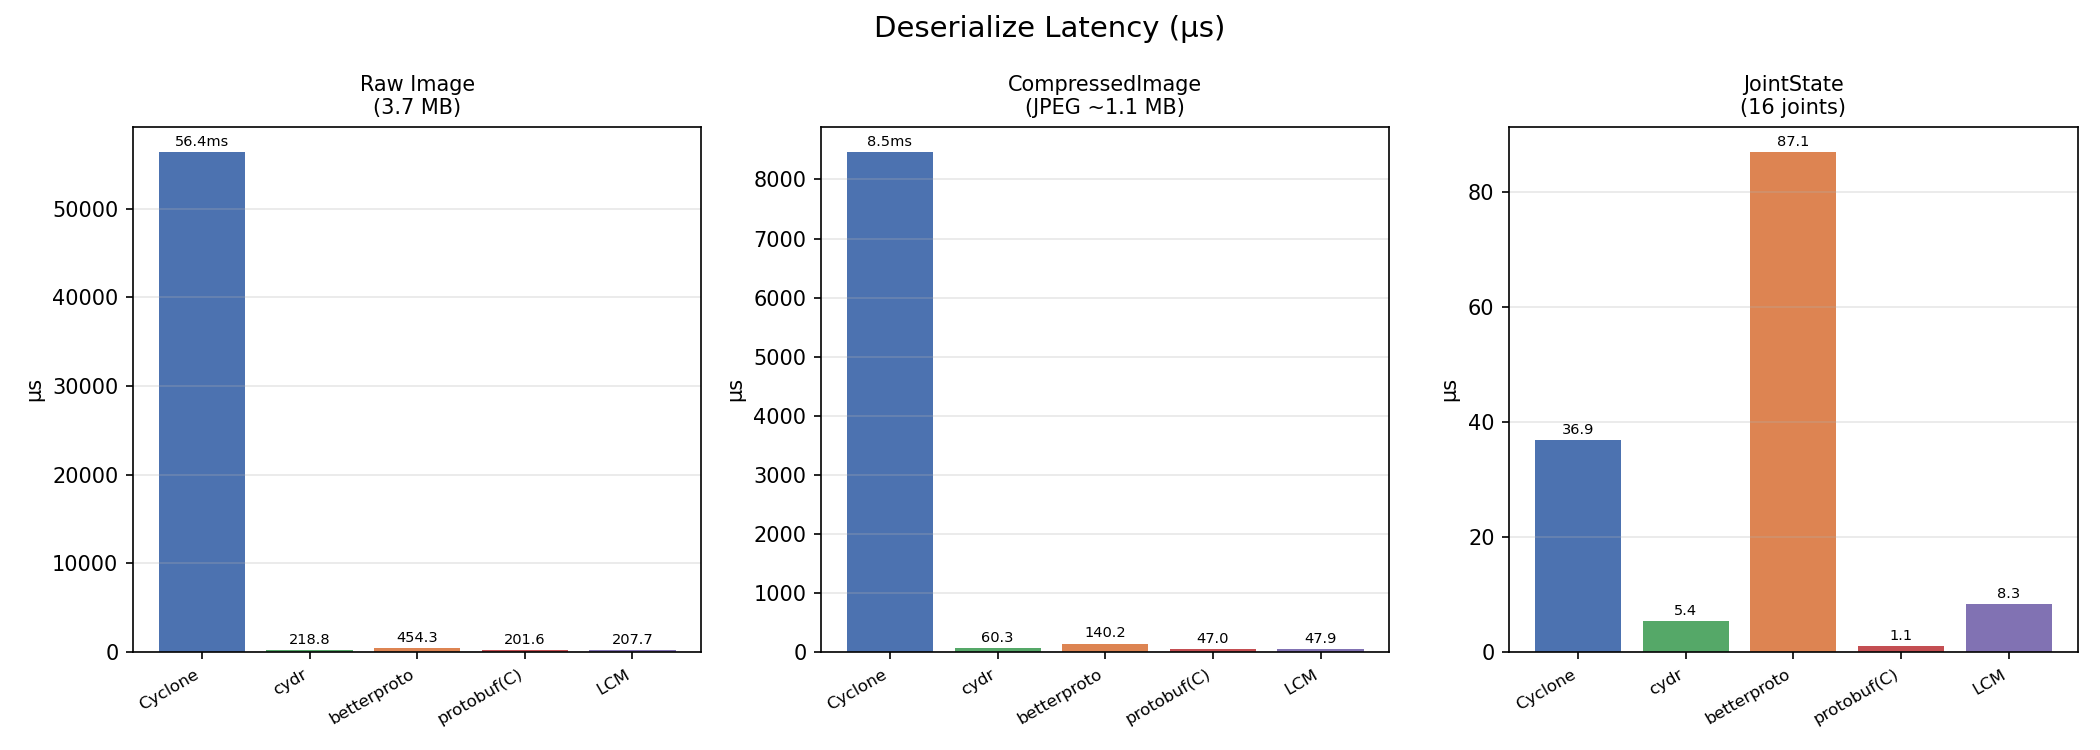
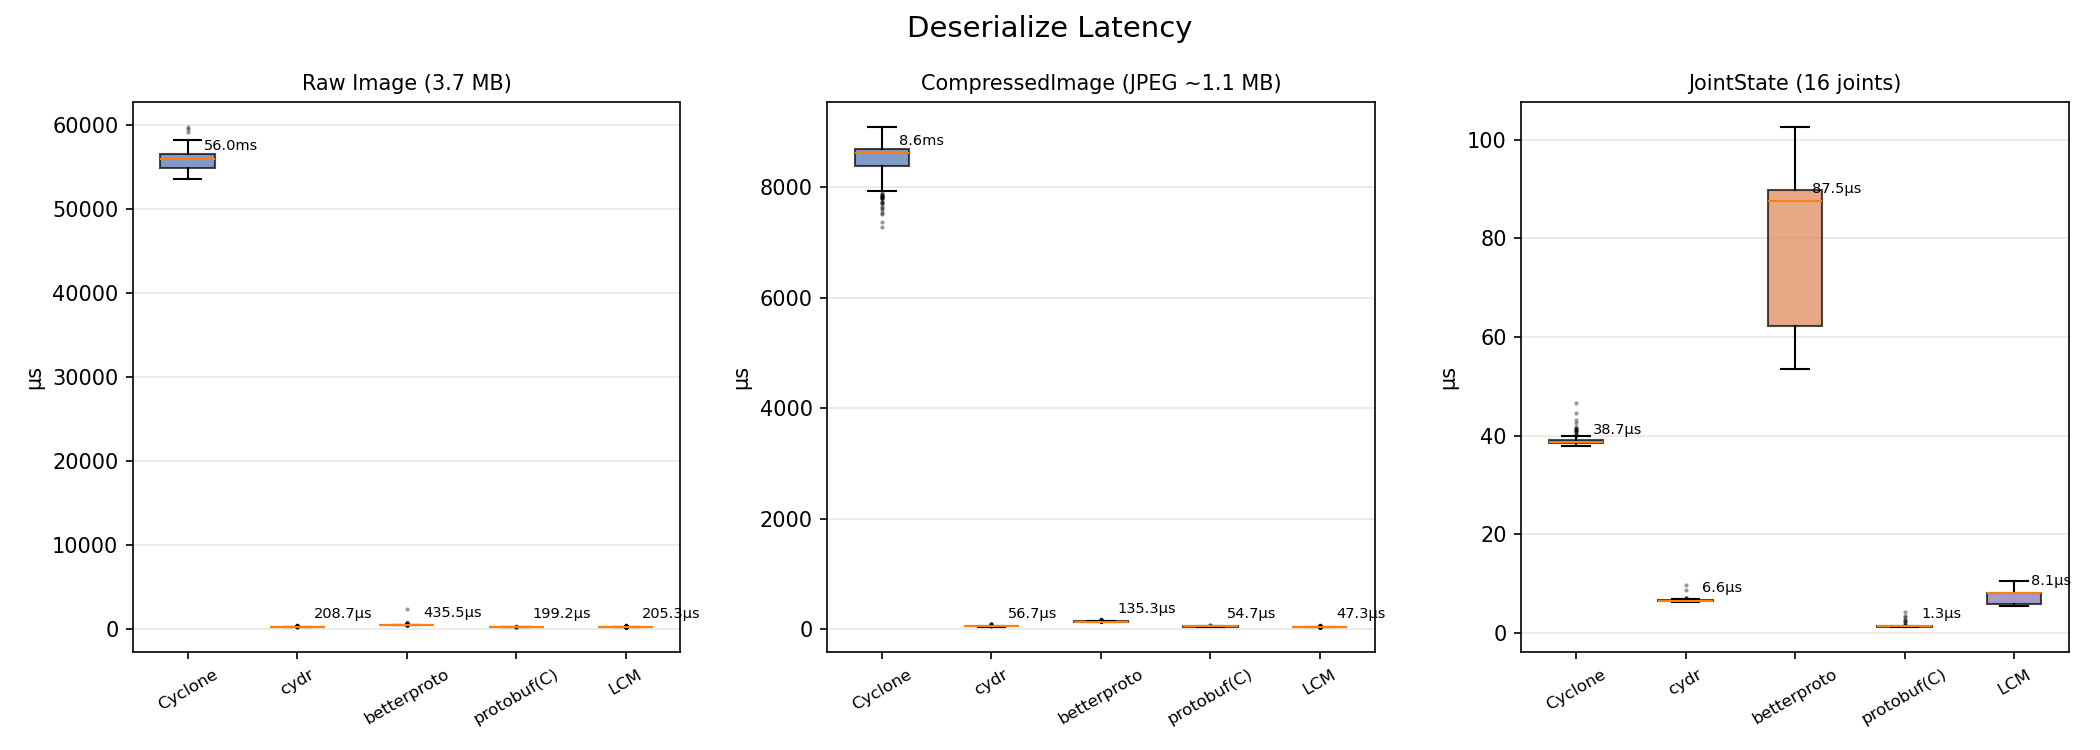
switch serdes plots from bar charts to box plots with per-iteration timings

diff --git a/bench_serdes.py b/bench_serdes.py
@@ -17,25 +17,26 @@ H, W, C = 960, 1280, 3
 N_WARMUP = 5
 N_ITERS = 200
 
-# Collect results for plotting: {(msg_type, backend): {"ser": µs, "deser": µs}}
+# Collect results for plotting: {(msg_type, backend): {"ser": [µs,...], "deser": [µs,...]}}
 RESULTS = {}
 
 
 def bench(name: str, fn, n_warmup=N_WARMUP, n_iters=N_ITERS):
     for _ in range(n_warmup):
         fn()
-    t0 = time.perf_counter()
+    timings = []
     for _ in range(n_iters):
+        t0 = time.perf_counter()
         fn()
-    elapsed = time.perf_counter() - t0
-    mean_us = elapsed / n_iters * 1e6
+        timings.append((time.perf_counter() - t0) * 1e6)
+    mean_us = sum(timings) / len(timings)
     print(f"  {name:.<50s} {mean_us:>9.1f} µs  ({n_iters} iters)")
-    return mean_us
+    return timings
 
 
-def record(msg_type: str, backend: str, ser_us: float, deser_us: float):
-    """Store a serdes result for later plotting."""
-    RESULTS[(msg_type, backend)] = {"ser": ser_us, "deser": deser_us}
+def record(msg_type: str, backend: str, ser_timings: list, deser_timings: list):
+    """Store per-iteration serdes timings for later plotting."""
+    RESULTS[(msg_type, backend)] = {"ser": ser_timings, "deser": deser_timings}
 
 
 def make_random_image():
@@ -594,41 +595,49 @@ def plot_serdes():
     import matplotlib.pyplot as plt
 
     msg_types = ["Image", "Compressed", "JointState"]
-    msg_labels = ["Raw Image\n(3.7 MB)", "CompressedImage\n(JPEG ~1.1 MB)", "JointState\n(16 joints)"]
+    msg_labels = ["Raw Image (3.7 MB)", "CompressedImage (JPEG ~1.1 MB)", "JointState (16 joints)"]
     backends = ["Cyclone", "cydr", "betterproto", "protobuf(C)", "LCM"]
     colors = ['#4C72B0', '#55A868', '#DD8452', '#C44E52', '#8172B3']
 
     for op, op_key in [("Serialize", "ser"), ("Deserialize", "deser")]:
         fig, axes = plt.subplots(1, 3, figsize=(14, 5))
-        fig.suptitle(f"{op} Latency (µs)", fontsize=14)
+        fig.suptitle(f"{op} Latency", fontsize=14)
 
         for ax, mt, ml in zip(axes, msg_types, msg_labels):
-            vals = []
+            data = []
             labels = []
             for b in backends:
                 key = (mt, b)
                 if key in RESULTS:
-                    vals.append(RESULTS[key][op_key])
+                    data.append(RESULTS[key][op_key])
                     labels.append(b)
 
-            bars = ax.bar(range(len(vals)), vals, color=colors[:len(vals)])
-            ax.set_xticks(range(len(vals)))
-            ax.set_xticklabels(labels, rotation=30, ha='right', fontsize=8)
+            if not data:
+                continue
+
+            bp = ax.boxplot(data, tick_labels=labels, patch_artist=True, showfliers=True,
+                            flierprops=dict(marker='.', markersize=2, alpha=0.4))
+            for patch, color in zip(bp['boxes'], colors[:len(data)]):
+                patch.set_facecolor(color)
+                patch.set_alpha(0.7)
+
+            # annotate medians
+            for i, d in enumerate(data):
+                med = np.median(d)
+                if med > 1000:
+                    label = f"{med/1000:.1f}ms"
+                elif med < 1:
+                    label = f"{med:.2f}µs"
+                else:
+                    label = f"{med:.1f}µs"
+                ax.annotate(label, xy=(i + 1, med),
+                            xytext=(8, 4), textcoords='offset points',
+                            fontsize=7, color='black')
+
             ax.set_title(ml, fontsize=10)
             ax.set_ylabel('µs')
+            ax.tick_params(axis='x', rotation=30, labelsize=8)
             ax.grid(axis='y', alpha=0.3)
-
-            # annotate values
-            for bar, v in zip(bars, vals):
-                if v > 1000:
-                    label = f"{v/1000:.1f}ms"
-                elif v < 1:
-                    label = f"{v:.2f}"
-                else:
-                    label = f"{v:.1f}"
-                ax.annotate(label, xy=(bar.get_x() + bar.get_width()/2, bar.get_height()),
-                            xytext=(0, 3), textcoords='offset points',
-                            ha='center', fontsize=7)
 
         fig.tight_layout()
         fname = f"bench_serdes_{op.lower()}.png"
